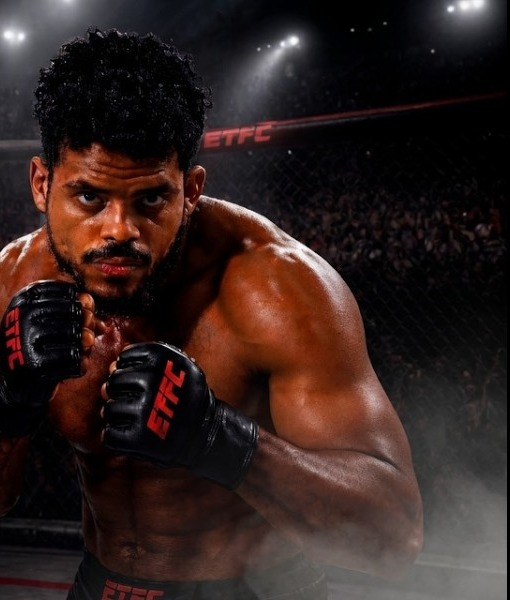
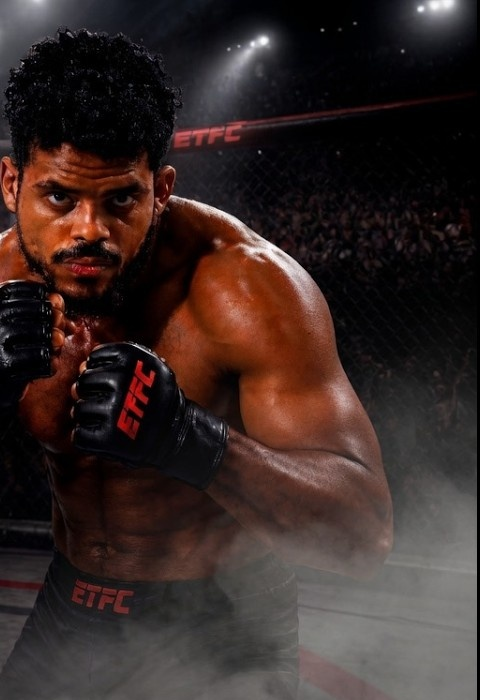
ufff

diff --git a/etfc-site/css/style.css b/etfc-site/css/style.css
@@ -80,14 +80,9 @@ a { color: inherit; text-decoration: none; }
 .hero-bg {
   position: absolute; inset: 0; display: grid; grid-template-columns: 1fr 1fr;
 }
-.hero-bg .face { background-size: cover; background-position: center; filter: grayscale(15%) contrast(1.05); }
-.hero-bg .face.left { background: linear-gradient(135deg,#2b2b2b,#151515); }
-.hero-bg .face.right { background: linear-gradient(225deg,#241a12,#151515); }
-.hero-bg::after {
-  content: ''; position: absolute; left: 50%; top: 0; bottom: 0; width: 2px;
-  background: linear-gradient(180deg, transparent, var(--crimson) 40%, transparent);
-  transform: translateX(-50%);
-}
+.hero-bg .face { background-size: cover; background-position: top center; filter: contrast(1.05); }
+.hero-bg .face.left { background-image: url('images/fighter-a.jpg'); background-position: top right; }
+.hero-bg .face.right { background-image: url('images/fighter-b.jpg'); background-position: top left; }
 .hero-content {
   position: relative; z-index: 2; width: 100%; padding: 64px 24px 56px;
   max-width: 1200px; margin: 0 auto; text-align: center;

diff --git a/etfc-site/api/admin-fights.js b/etfc-site/api/admin-fights.js
@@ -15,8 +15,14 @@ module.exports = async (req, res) => {
   }
 
   try {
-    const snap = await db.collection("fights").orderBy("discipline").orderBy("order").get();
-    const fights = snap.docs.map((doc) => ({ id: doc.id, ...doc.data() }));
+    // No .orderBy() chain here on purpose — Firestore requires a manually
+    // created composite index for ordering by two different fields, which
+    // doesn't exist yet and would fail every request. Sorting in JS avoids
+    // needing that index at all.
+    const snap = await db.collection("fights").get();
+    const fights = snap.docs
+      .map((doc) => ({ id: doc.id, ...doc.data() }))
+      .sort((a, b) => (a.discipline > b.discipline ? 1 : a.discipline < b.discipline ? -1 : a.order - b.order));
     return res.status(200).json({ fights });
   } catch (err) {
     console.error("admin-fights failed:", err);

diff --git a/etfc-site/index.html b/etfc-site/index.html
@@ -12,7 +12,7 @@
 
 <!-- HERO -->
 <section class="hero">
-  <div class="hero-bg"><div class="face left" style="background-image:url('images/fighter-a.jpg');"></div><div class="face right" style="background-image:url('images/fighter-b.jpg');"></div></div>
+  <div class="hero-bg"><div class="face left"></div><div class="face right"></div></div>
   <div class="hero-content">
     <div class="hero-label">ETFC Fight Night &middot; Heavyweight Bout</div>
     <h1 class="hero-title">SEDO <span class="vs">VS</span> JONNY</h1>
